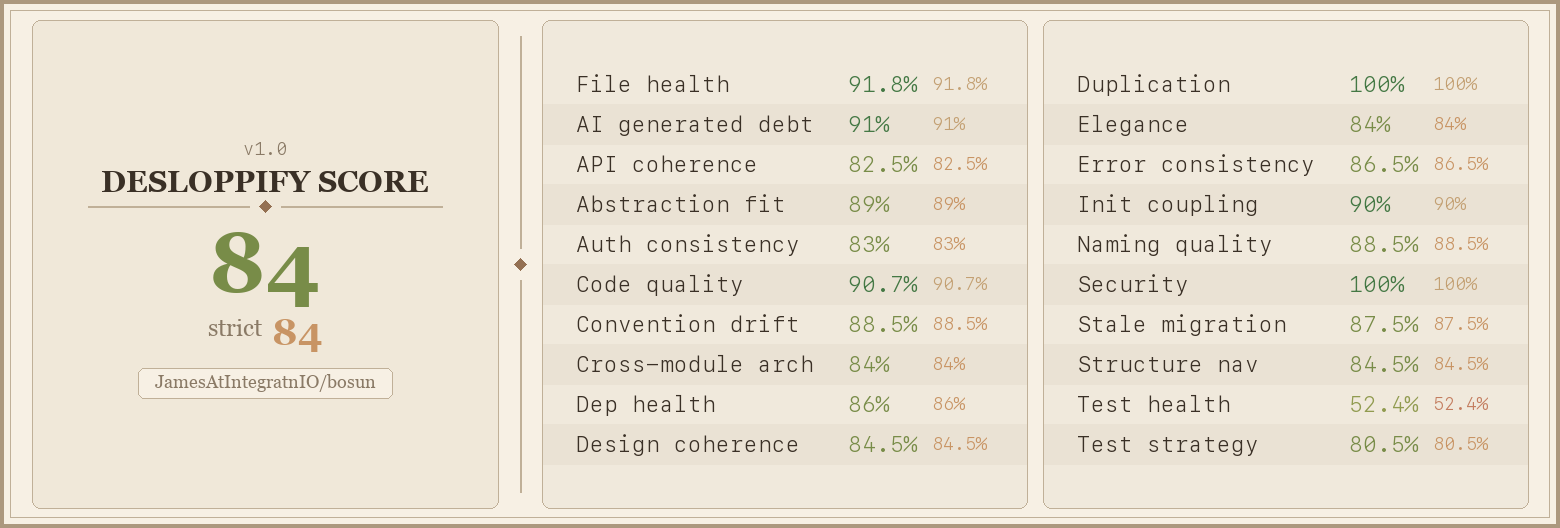
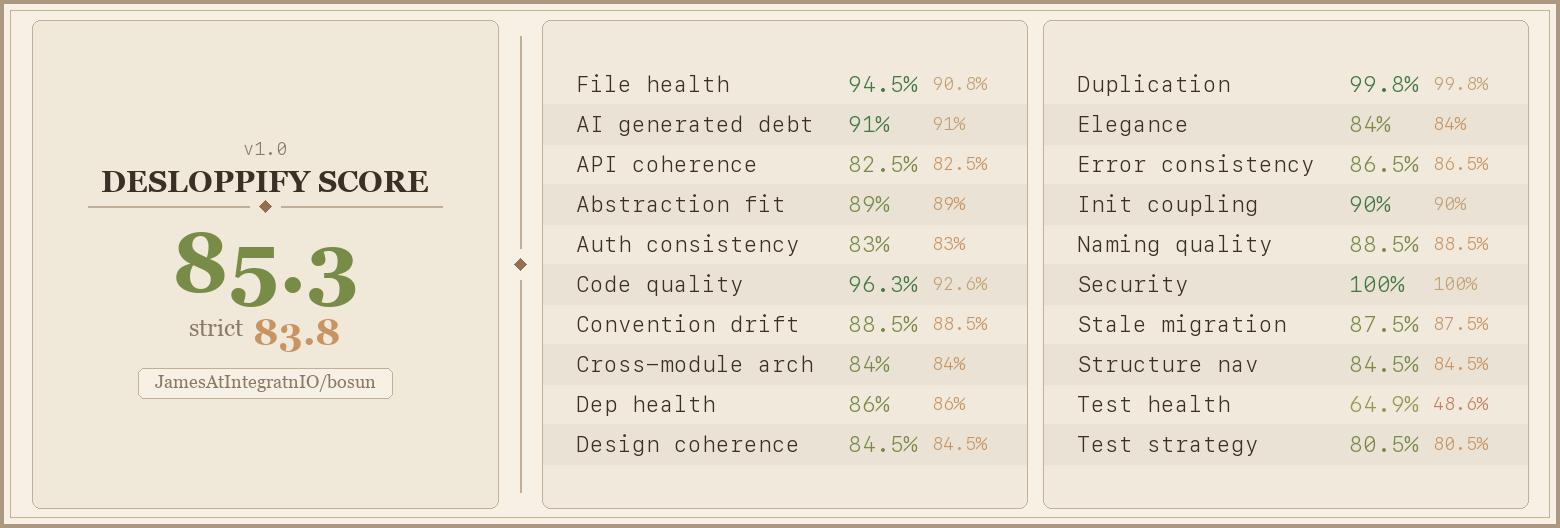
test: cover the inventory every render is expanded against
gate/clusters.go was entirely untested, and it produces the cluster
inventory each bootstrap ApplicationSet is expanded against. A cluster that
arrives with the wrong labels is a generator selecting the wrong set, and the
gate then reports the difference as a targeting change the pull request made.

The tests pin the decisions rather than the shapes: labels are never dropped
because which selector a future bootstrap matches on is unknowable, while
annotations are trimmed to what the repository actually templates with; the
noisy-key strip works exactly and by prefix, because a check that always
fails gets switched off; the keep-list is derived by scanning the whole tree,
not just the bootstraps; a re-export normalises the timestamp away but not a
real change; and undecodable Secret data does not become a cluster name.

Everything but ExportClusters, which shells out to kubectl and is the
workstation path.

diff --git a/gate/clusters_test.go b/gate/clusters_test.go
@@ -1,0 +1,217 @@
+package gate
+
+import (
+	"encoding/base64"
+	"os"
+	"path/filepath"
+	"strings"
+	"testing"
+)
+
+// gate/clusters.go was entirely untested, and it produces the cluster
+// inventory every render is expanded against. A cluster that arrives with the
+// wrong labels is a generator that selects the wrong set, and the gate then
+// reports the difference as a targeting change the pull request made.
+
+func b64(s string) string { return base64.StdEncoding.EncodeToString([]byte(s)) }
+
+func secret(name string, labels, annotations map[string]string, data map[string]string) ClusterSecret {
+	var s ClusterSecret
+	s.Metadata.Name = name
+	s.Metadata.Labels = labels
+	s.Metadata.Annotations = annotations
+	s.Data = data
+	return s
+}
+
+// The name and server live base64-encoded in the Secret's data, and the
+// Secret's own name is the fallback.
+func TestInventoryFromSecretsDecodesNameAndServer(t *testing.T) {
+	inv := InventoryFromSecrets([]ClusterSecret{
+		secret("hub-secret", nil, nil, map[string]string{
+			"name": b64("hub"), "server": b64("https://hub.example"),
+		}),
+		secret("edge-secret", nil, nil, nil),
+	}, ExportFilter{})
+
+	if len(inv.Clusters) != 2 {
+		t.Fatalf("got %d", len(inv.Clusters))
+	}
+	if inv.Clusters[0].Name != "hub" || inv.Clusters[0].Server != "https://hub.example" {
+		t.Errorf("got %+v", inv.Clusters[0])
+	}
+	if inv.Clusters[1].Name != "edge-secret" {
+		t.Errorf("the Secret name is the fallback, got %q", inv.Clusters[1].Name)
+	}
+	// A live read never passes through LoadInventory, and generators in the
+	// wild routinely select on this label.
+	if inv.Clusters[0].Labels["argocd.argoproj.io/secret-type"] != "cluster" {
+		t.Errorf("the secret-type label must be present: %v", inv.Clusters[0].Labels)
+	}
+	// Not stamped: GeneratedAt is a property of a snapshot, added by whoever
+	// takes one.
+	if inv.GeneratedAt != "" {
+		t.Errorf("InventoryFromSecrets must not stamp, got %q", inv.GeneratedAt)
+	}
+}
+
+// Labels are selector inputs and are NEVER dropped -- which selector a future
+// bootstrap will match on is unknowable, and dropping one reintroduces the
+// stale-fixture failure this export exists to prevent. Annotations are trimmed
+// to what the repository templates with.
+func TestLabelsSurviveAndAnnotationsAreTrimmed(t *testing.T) {
+	inv := InventoryFromSecrets([]ClusterSecret{
+		secret("c",
+			map[string]string{"environment": "production", "obscure": "kept-anyway"},
+			map[string]string{"used": "yes", "unused": "no"},
+			map[string]string{"name": b64("c")}),
+	}, ExportFilter{KeepAnnotations: map[string]bool{"used": true}})
+
+	c := inv.Clusters[0]
+	if c.Labels["obscure"] != "kept-anyway" {
+		t.Errorf("no label may be dropped: %v", c.Labels)
+	}
+	if c.Annotations["used"] != "yes" {
+		t.Errorf("a templated annotation must survive: %v", c.Annotations)
+	}
+	if _, ok := c.Annotations["unused"]; ok {
+		t.Errorf("an untemplated annotation must be trimmed: %v", c.Annotations)
+	}
+}
+
+// Noisy keys churn without changing what any selector or template sees, and a
+// check that always fails gets switched off -- which is worse than not having
+// it.
+func TestStripDropsNoisyKeysExactlyAndByPrefix(t *testing.T) {
+	f := ExportFilter{IgnoreKeys: append(append([]string{}, defaultNoisyKeys...), "site.example/*")}
+	got := f.strip(map[string]string{
+		"kubectl.kubernetes.io/last-applied-configuration": "huge",
+		"reconcile.external-secrets.io/data-hash":          "abc",
+		"site.example/anything":                            "churn",
+		"site.example":                                     "exact-prefix-without-slash",
+		"keep-me":                                          "yes",
+	})
+	if got["keep-me"] != "yes" {
+		t.Errorf("an ordinary key must survive: %v", got)
+	}
+	for _, gone := range []string{
+		"kubectl.kubernetes.io/last-applied-configuration",
+		"reconcile.external-secrets.io/data-hash",
+		"site.example/anything",
+	} {
+		if _, ok := got[gone]; ok {
+			t.Errorf("%q must be stripped: %v", gone, got)
+		}
+	}
+}
+
+func TestKeepOnlyIsOpenWhenNothingIsNamed(t *testing.T) {
+	in := map[string]string{"a": "1", "b": "2"}
+	if got := keepOnly(in, nil); len(got) != 2 {
+		t.Errorf("an empty keep-set keeps everything, got %v", got)
+	}
+	if got := keepOnly(in, map[string]bool{"a": true}); len(got) != 1 || got["a"] != "1" {
+		t.Errorf("got %v", got)
+	}
+}
+
+// A re-export must not report drift purely because time passed.
+func TestNormaliseInventoryDropsTheTimestamp(t *testing.T) {
+	a := "generatedAt: 2024-01-01T00:00:00Z\nclusters:\n  - name: hub\n"
+	b := "generatedAt: 2025-09-09T09:09:09Z\nclusters:\n  - name: hub\n"
+	if NormaliseInventory([]byte(a)) != NormaliseInventory([]byte(b)) {
+		t.Error("two exports of the same clusters must normalise to the same text")
+	}
+	// A real difference must still show.
+	c := "generatedAt: 2024-01-01T00:00:00Z\nclusters:\n  - name: edge\n"
+	if NormaliseInventory([]byte(a)) == NormaliseInventory([]byte(c)) {
+		t.Error("a different cluster set must not normalise away")
+	}
+	// Unparseable input is returned as-is rather than swallowed: the caller
+	// compares strings, and an empty one would read as "no drift".
+	if got := NormaliseInventory([]byte("{{ not yaml")); got != "{{ not yaml" {
+		t.Errorf("got %q", got)
+	}
+}
+
+func TestDecodeRejectsWhatIsNotBase64(t *testing.T) {
+	if got := decode(b64("hello")); got != "hello" {
+		t.Errorf("got %q", got)
+	}
+	if got := decode("not base64!!!"); got != "" {
+		t.Errorf("undecodable data must not become a cluster name, got %q", got)
+	}
+	if got := decode(""); got != "" {
+		t.Errorf("got %q", got)
+	}
+}
+
+// The keep-list is DERIVED from the repository rather than configured: a list
+// an operator maintains by hand is a list that goes wrong, and the answer is
+// already in the repository. It scans the whole tree, not just the bootstraps
+// -- the inner ApplicationSets template with annotations too.
+func TestAnnotationsUsedByScansTheWholeRepository(t *testing.T) {
+	root := t.TempDir()
+	files := map[string]string{
+		"bootstrap/appset.yaml": "path: '{{ metadata.annotations.bootstrap_key }}'\n",
+		"inner/nested/app.yaml": `ns: '{{ metadata.annotations["cert_manager_namespace"] }}'`,
+		"chart/values.tpl":      "x: {{ metadata.annotations.tpl_key }}\n",
+		"README.md":             "metadata.annotations.not_scanned\n",
+		".git/config":           "metadata.annotations.never\n",
+	}
+	for p, body := range files {
+		full := filepath.Join(root, filepath.FromSlash(p))
+		if err := os.MkdirAll(filepath.Dir(full), 0o755); err != nil {
+			t.Fatal(err)
+		}
+		if err := os.WriteFile(full, []byte(body), 0o644); err != nil {
+			t.Fatal(err)
+		}
+	}
+
+	got, err := annotationsUsedBy(root)
+	if err != nil {
+		t.Fatal(err)
+	}
+	for _, want := range []string{"bootstrap_key", "cert_manager_namespace", "tpl_key"} {
+		if !got[want] {
+			t.Errorf("%q is templated with and was not found: %v", want, got)
+		}
+	}
+	// Only the extensions that can be templates, and never .git.
+	if got["not_scanned"] || got["never"] {
+		t.Errorf("scanned something it should not have: %v", got)
+	}
+}
+
+// The filter carries the defaults every ArgoCD install needs, plus the
+// config's, plus what the repository templates with.
+func TestNewExportFilterCombinesAllThreeSources(t *testing.T) {
+	root := t.TempDir()
+	if err := os.WriteFile(filepath.Join(root, "a.yaml"),
+		[]byte("x: '{{ metadata.annotations.from_repo }}'\n"), 0o644); err != nil {
+		t.Fatal(err)
+	}
+	cfg := &Config{ClustersExport: ClustersExportConfig{IgnoreKeys: []string{"site.example/*"}}}
+
+	f := NewExportFilter(root, cfg)
+	if !f.KeepAnnotations["from_repo"] {
+		t.Errorf("the repository's own usage must reach the filter: %v", f.KeepAnnotations)
+	}
+	joined := strings.Join(f.IgnoreKeys, " ")
+	if !strings.Contains(joined, "site.example/*") {
+		t.Errorf("the config's keys must reach the filter: %v", f.IgnoreKeys)
+	}
+	for _, d := range defaultNoisyKeys {
+		if !strings.Contains(joined, d) {
+			t.Errorf("the default %q must survive: %v", d, f.IgnoreKeys)
+		}
+	}
+
+	// No repository and no config is the live-read case: nothing kept back,
+	// because nothing is ever diffed against a live inventory.
+	bare := NewExportFilter("", nil)
+	if len(bare.KeepAnnotations) != 0 {
+		t.Errorf("an empty keep-set keeps every annotation, got %v", bare.KeepAnnotations)
+	}
+}
